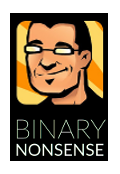
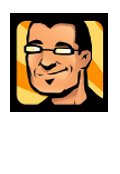
update

Changed region(s): [[0.075, 0.6322, 0.9, 0.9483]]

diff --git a/about/index.html b/about/index.html
@@ -67,41 +67,48 @@ body, h1,h2,h3,h4,h5,h6 {font-family: "Montserrat", sans-serif}
 <!-- Page Content -->
 <div class="w3-padding-large" id="main">
 
- <header class="w3-container w3-padding-32 w3-center w3-black" id="home">
-    <img src="../imgs/alvaro.png" class="w3-image" width="120" height="174">
-    <h1 class="w3-xxxlarge">ABOUT ME</h1>
-  </header> 
+    <header class="w3-container w3-padding-32 w3-center w3-black" id="home">
+        <img src="../imgs/bn_logo_120.png" alt="binarynonsense" class="w3-image" width="120" height="174">
+        <h1 class="w3-xxxlarge">ABOUT ME</h1>
+    </header> 
   
-  <div class="w3-content w3-justify w3-text-grey" id="about">
-  
-    <h2 class="w3-text-light-grey">Info:</h2>
-
-    <p>My name is Álvaro García and this is my website. I'm an engineer, game developer, graphic artist, programmer... and I use this website as a way to share some of my thoughts and work, like art samples, programs, games, designs and anything I think is interesting enough to be shown.</p>
-
-    <p>Apart from that, the site includes a blog, where I like to write about some topics I'm interested in: books, games, game development...</p>
- 
-    <h2 class="w3-text-light-grey">Contact:</h2>
-    <p><img src="../imgs/mail.png"></p>
+    <div class="w3-content w3-justify w3-text-grey" id="about">  
     
-    <h2 class="w3-xxlarge w3-text-light-grey">
-        <a class="link" data-title="twitter.com/binarynonsense" href="http://twitter.com/binarynonsense" target="_blank" style="text-decoration:none">
-            <i class="fab fa-twitter w3-hover-opacity"></i>
-        </a>
+        <div class="w3-row-padding w3-padding-16">
+            <div class="w3-col l2 s2 m4">
+                <img src="../imgs/alvaro.png" class="w3-image" width="120" height="174">
+            </div>
+            <div class="w3-col l10 m8 s8 w3-margin-bottom">
+                
+                <p>My name is Álvaro García and this is my website. I'm an engineer, game developer, graphic artist, programmer... and I use this website as a way to share some of my thoughts and work, like art samples, programs, games, designs and anything I think is interesting enough to be shown.</p>
+
+                <p>Apart from that, the site includes a blog, where I like to write about some topics I'm interested in: books, games, game development...</p>
+
+                <p style="margin-top:32px"><img src="../imgs/mail.png"></p>
+                
+                <h2 class="w3-xlarge w3-text-light-grey">
+                    <a class="link" data-title="twitter.com/binarynonsense" href="http://twitter.com/binarynonsense" target="_blank" style="text-decoration:none">
+                        <i class="fab fa-twitter w3-hover-opacity"></i>
+                    </a>
+                    
+                    <a class="link" data-title="youtube.com/user/binarynonsense" href="http://www.youtube.com/user/binarynonsense" target="_blank" style="text-decoration:none">
+                        <i class="fab fa-youtube w3-hover-opacity"></i>
+                    </a>
+                    
+                    <a class="link" data-title="https://binarynonsense.itch.io/" href="https://binarynonsense.itch.io/" target="_blank" style="text-decoration:none">
+                        <i class="fab fa-itch-io w3-hover-opacity"></i>
+                    </a> 
+                    
+                    <a class="link" data-title="github.com/binarynonsense" href="https://github.com/binarynonsense" target="_blank" style="text-decoration:none">
+                        <i class="fab fa-github w3-hover-opacity"></i>
+                    </a>
+                </h2> 
+       
+            </div> 
+            
+        </div> 
         
-        <a class="link" data-title="youtube.com/user/binarynonsense" href="http://www.youtube.com/user/binarynonsense" target="_blank" style="text-decoration:none">
-            <i class="fab fa-youtube w3-hover-opacity"></i>
-        </a>
-        
-        <a class="link" data-title="https://binarynonsense.itch.io/" href="https://binarynonsense.itch.io/" target="_blank" style="text-decoration:none">
-            <i class="fab fa-itch-io w3-hover-opacity"></i>
-        </a> 
-        
-        <a class="link" data-title="github.com/binarynonsense" href="https://github.com/binarynonsense" target="_blank" style="text-decoration:none">
-            <i class="fab fa-github w3-hover-opacity"></i>
-        </a>
-    </h2> 
-    
-  </div>
+    </div>
 <!-- END PAGE CONTENT -->
 </div>
 
